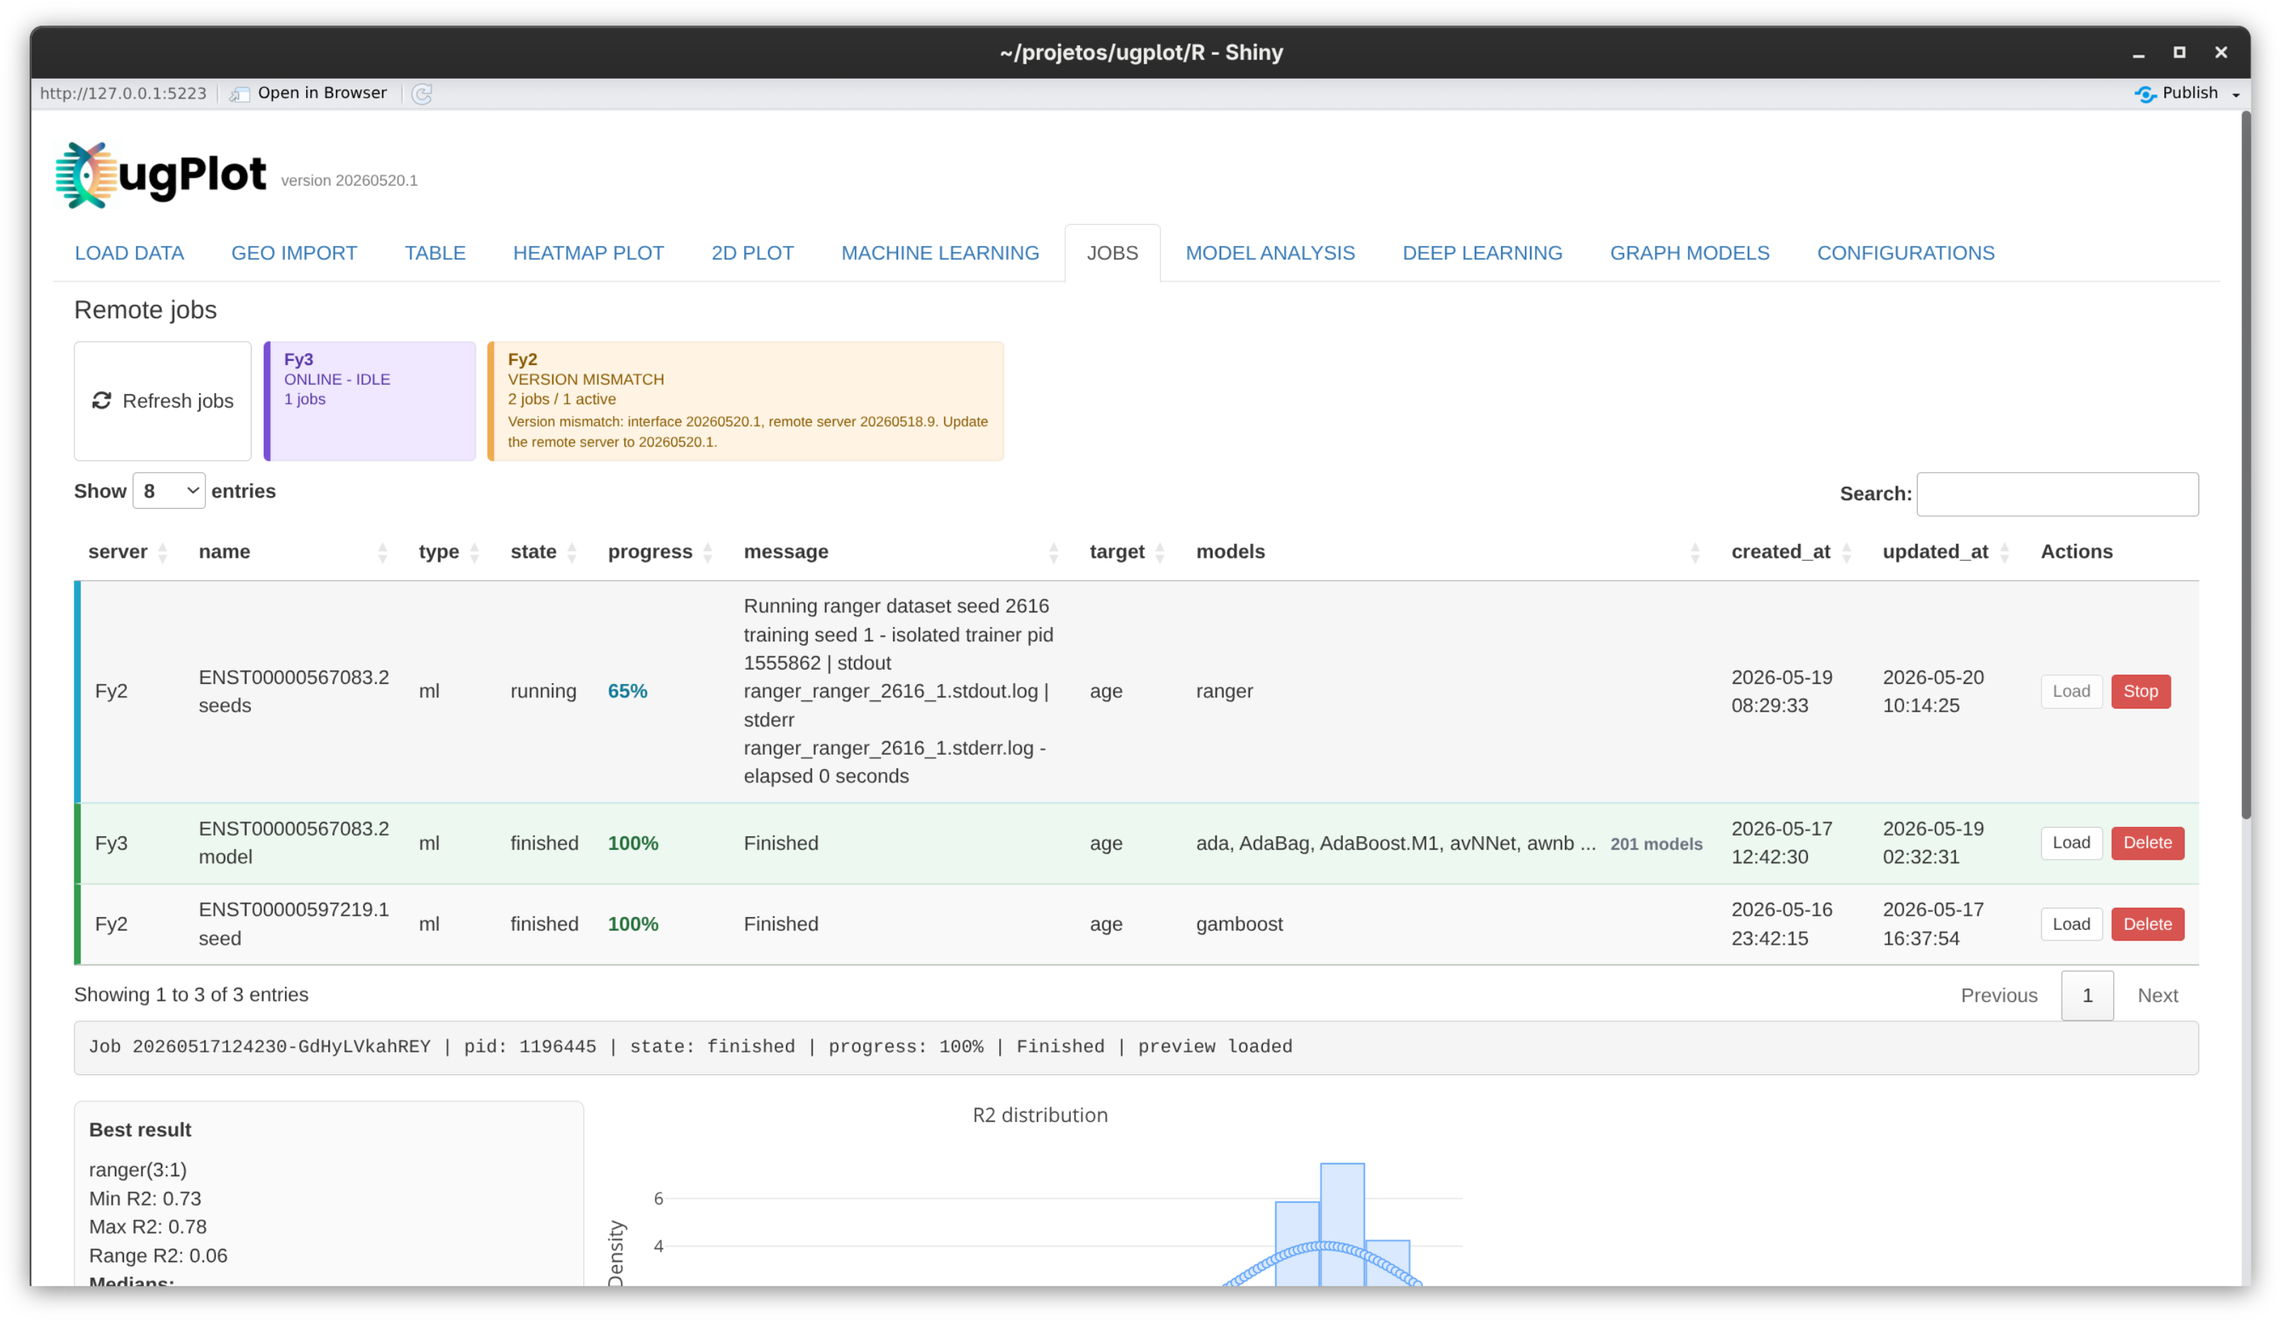
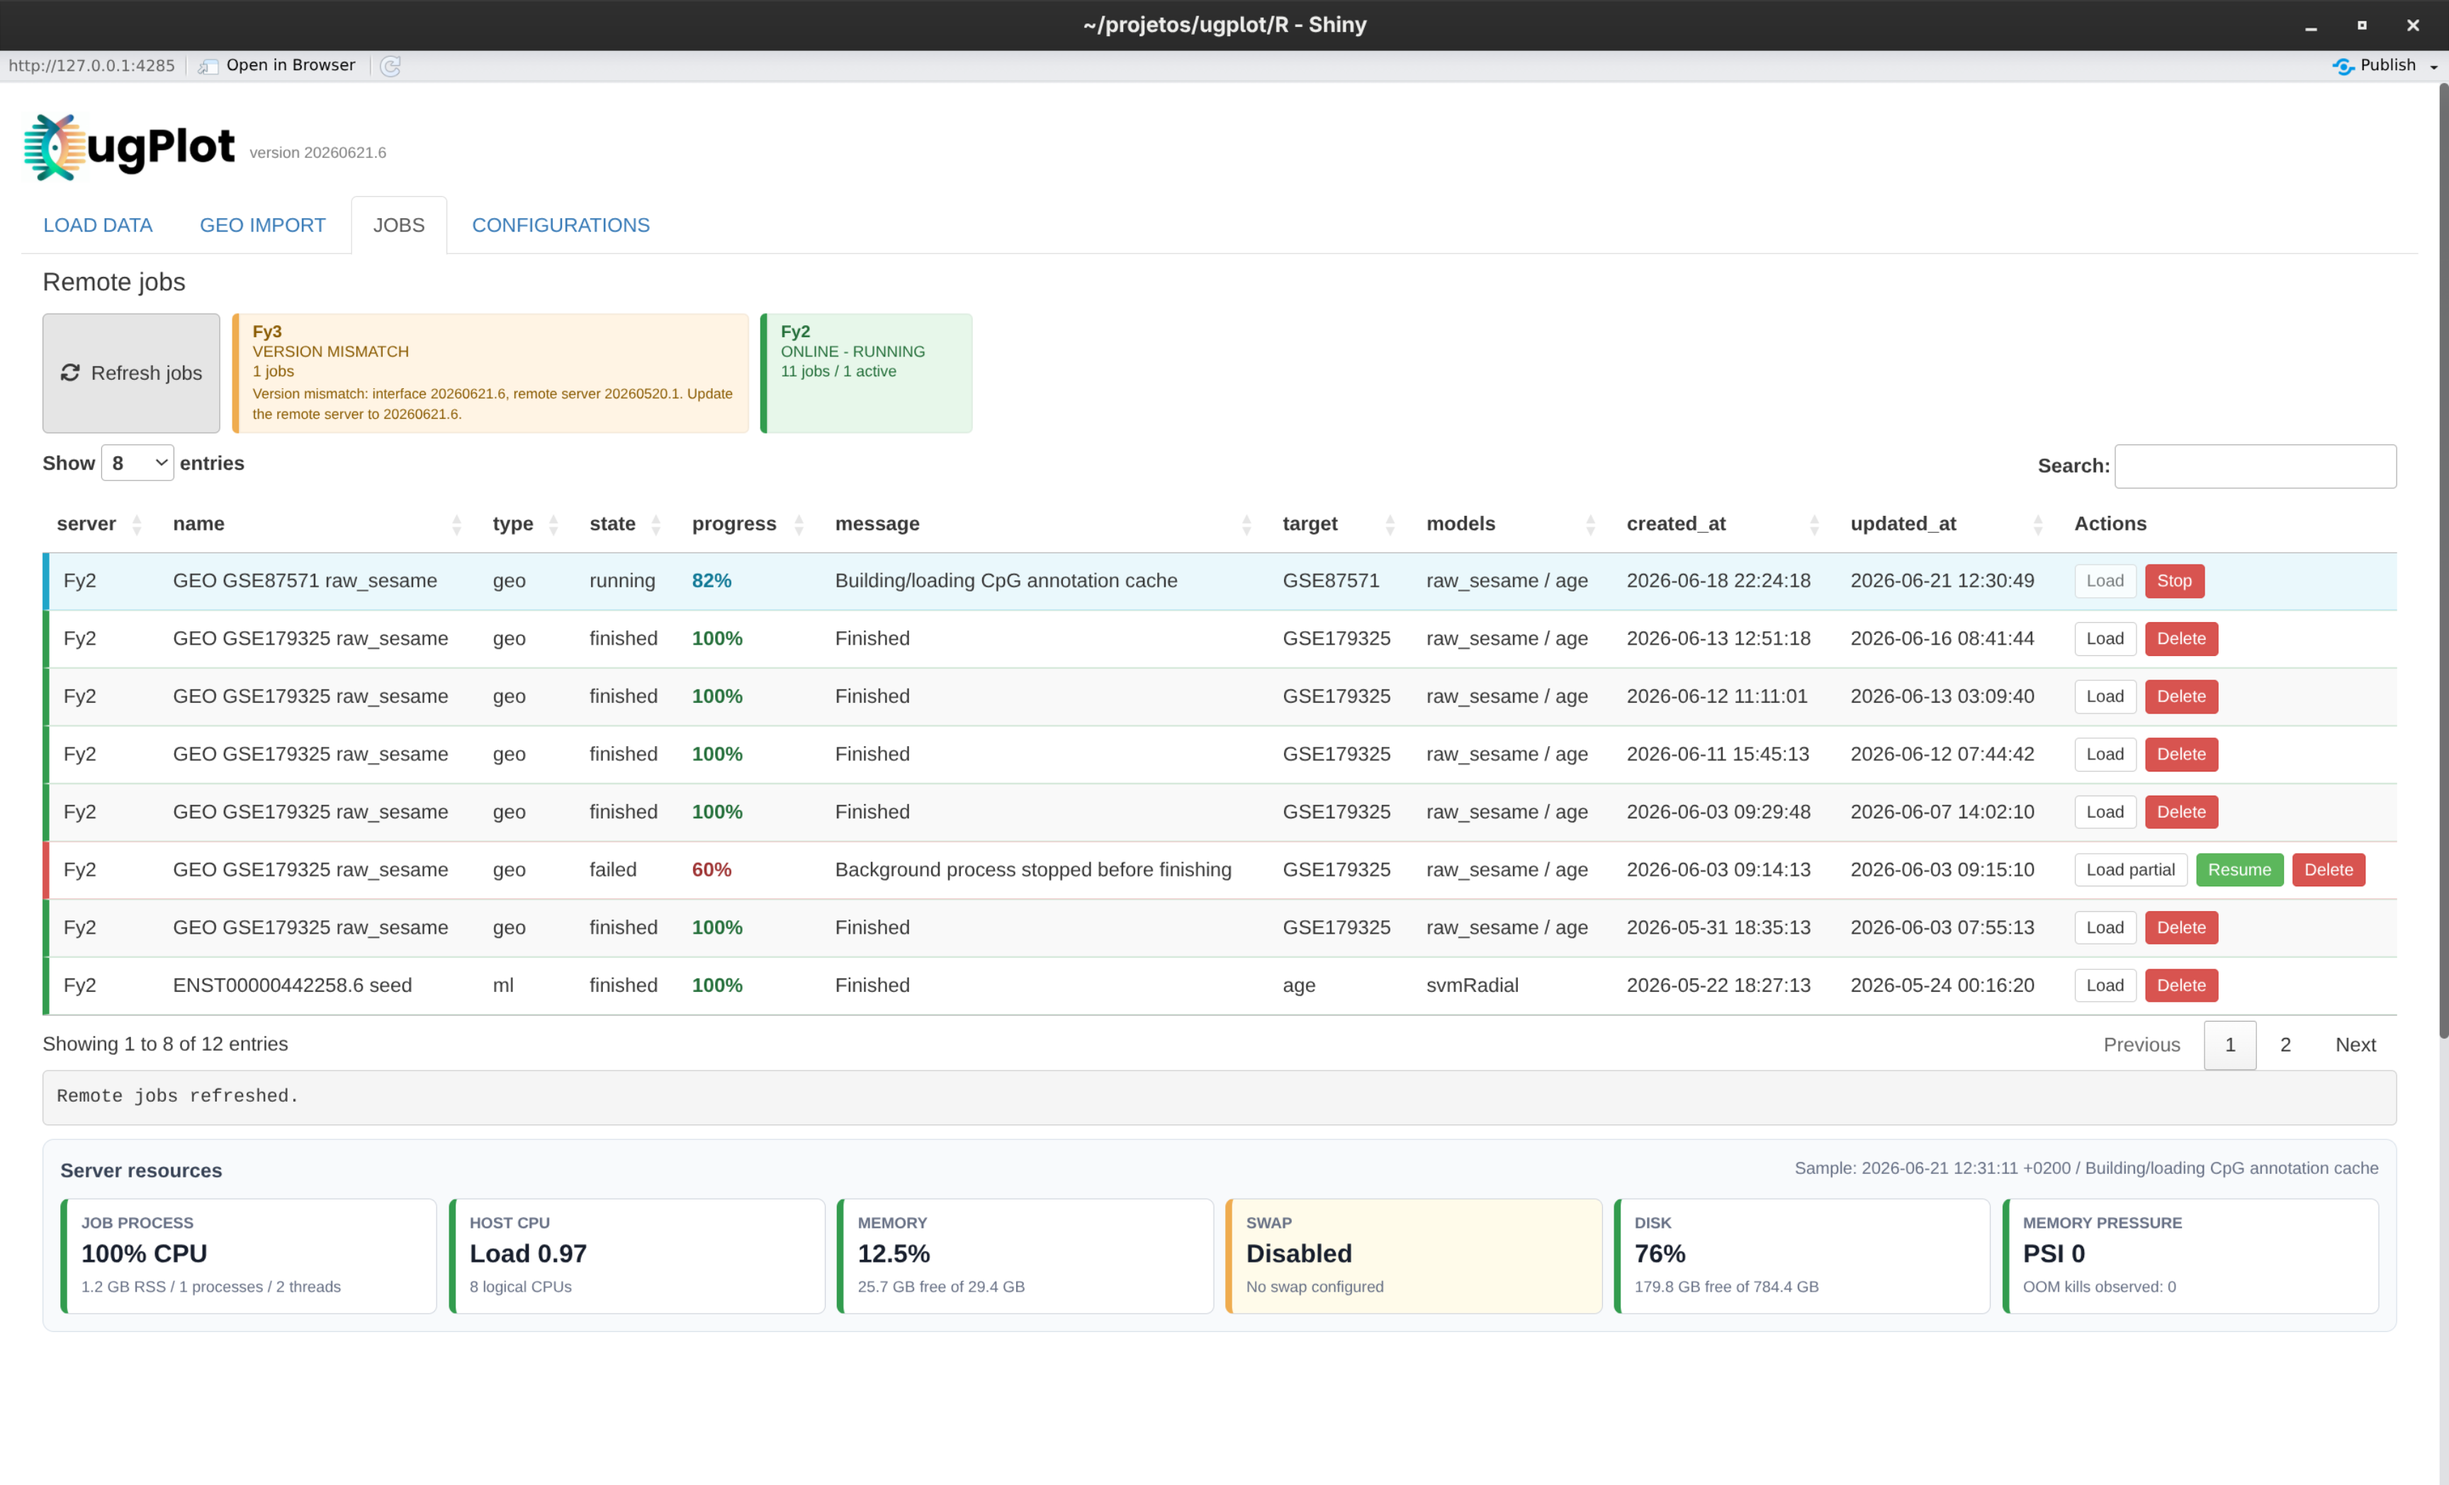
Update remote jobs manual screenshot

diff --git a/README.md b/README.md
@@ -367,9 +367,13 @@ Use remote jobs when the work is long, memory-heavy, or should continue even if 
 
 - Server cards summarize connection state, active jobs, and version mismatches.
 - The job table shows server, job name, type, state, progress, target, model list, timestamps, and actions.
-- **Load** imports the selected job preview/results back into the app.
+- Selecting a job row only refreshes its status, resource telemetry, and log. It does not load the result or change tabs.
+- **Load** imports a finished result back into the app. **Load partial** explicitly opens the latest checkpoint from a failed or stopped job.
+- **Resume** continues a recoverable failed or stopped job from its saved checkpoint.
 - **Stop** asks a running remote server to stop the active job.
 - **Delete** removes finished job records when they are no longer needed.
+
+The **Server resources** panel is sampled every 30 seconds while a job is active. It reports the job process CPU and RSS, host load, available memory, swap, disk usage, Linux memory pressure (PSI), and observed OOM kills. Green cards are within normal limits, yellow cards need attention, and red cards indicate critical pressure or an OOM event. `Swap: Disabled` means the server has no swap configured; it does not mean swap usage is zero on an available swap device. For a stopped process, the first card shows the last live process sample rather than a current CPU value.
 
 If a server card shows **VERSION MISMATCH**, update the remote server package so the interface and server use the same ugPlot version.
 
